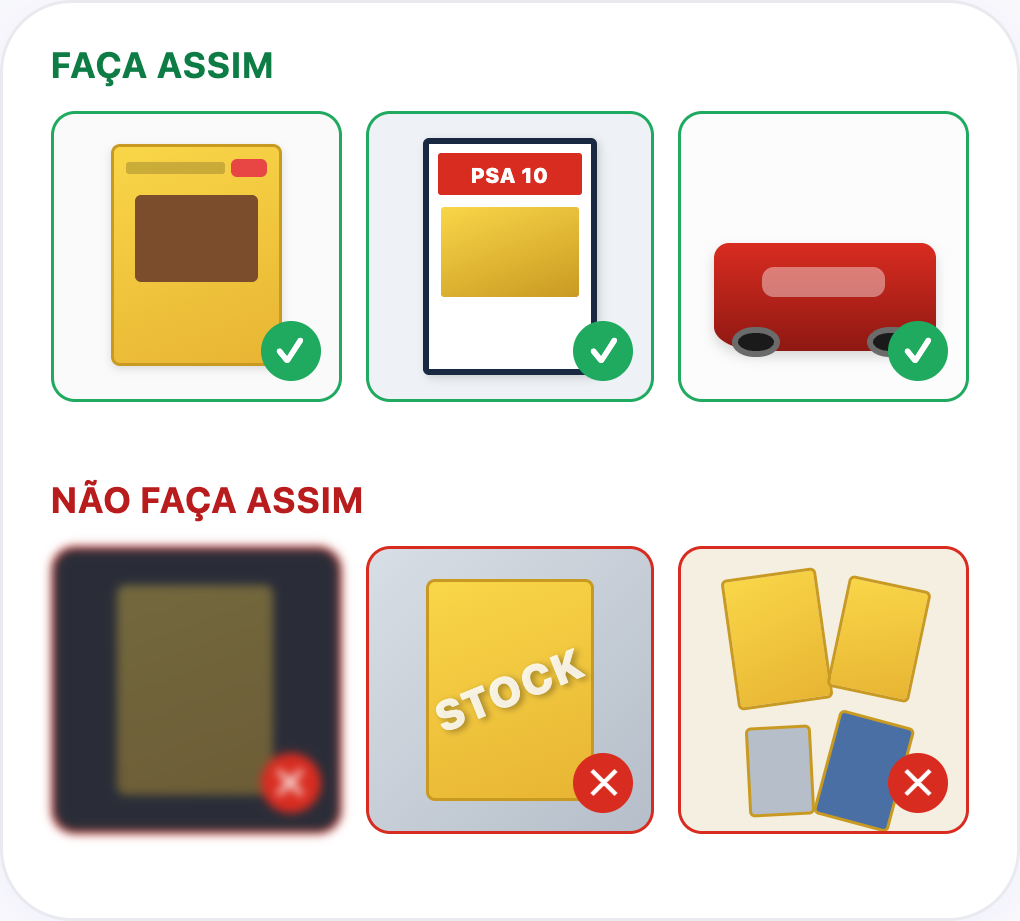
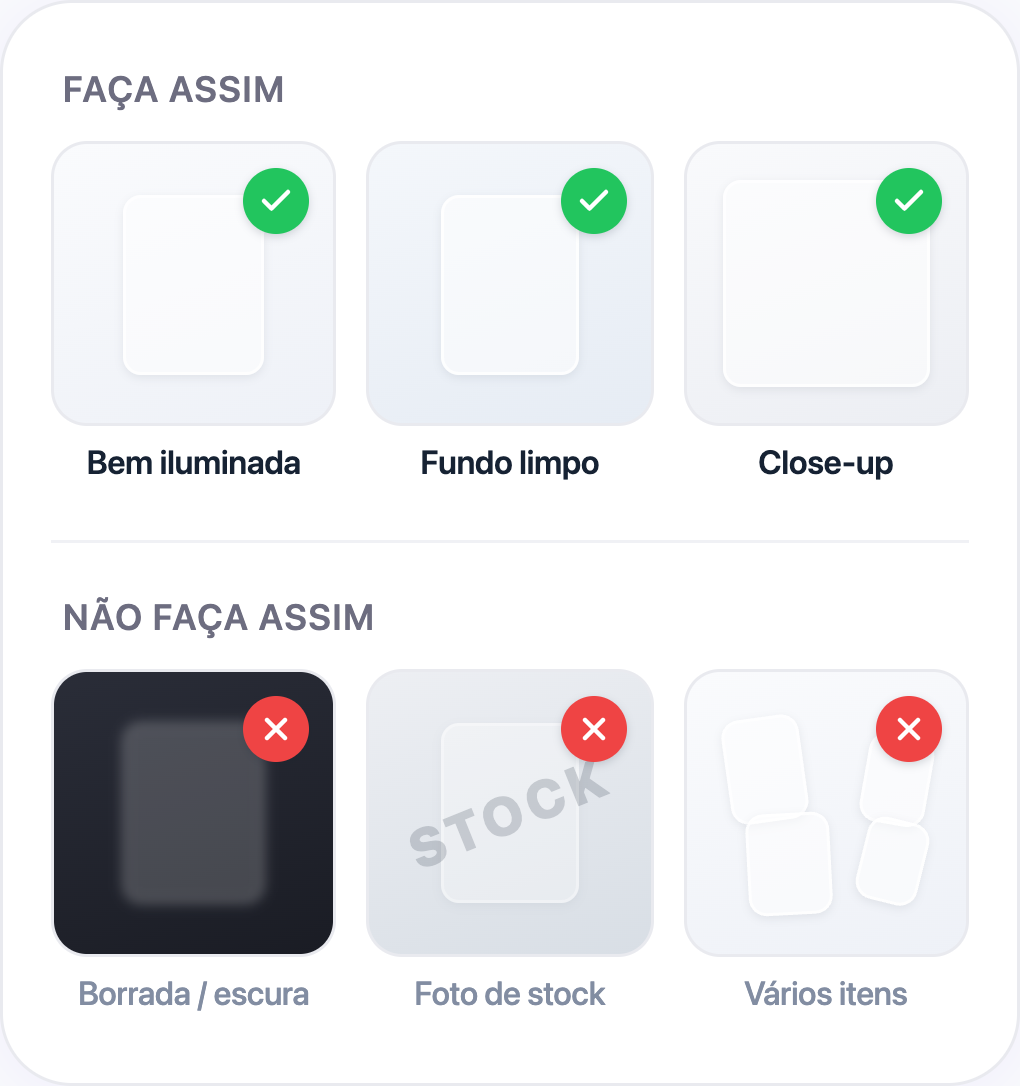
listing-guidelines: clean Jamble DA on photo good/bad mockup, kill cartoons

diff --git a/articles/listing-guidelines/mockup-sources/photo-do-dont__pt-br.html b/articles/listing-guidelines/mockup-sources/photo-do-dont__pt-br.html
@@ -1,90 +1,93 @@
-<!DOCTYPE html><html><head><meta name="viewport" content="width=device-width, initial-scale=1"><style>
+<!DOCTYPE html>
+<html><head><meta name="viewport" content="width=device-width, initial-scale=1"><style>
 * { box-sizing: border-box; margin: 0; padding: 0; }
 body { font-family: -apple-system, "SF Pro Display", BlinkMacSystemFont, system-ui, sans-serif; background: #F9FAFC; display: flex; justify-content: center; padding: 12px; }
-.phone { width: 340px; background: #FFFFFF; border-radius: 24px; box-shadow: 0 2px 20px rgba(126,83,248,0.08); border: 1px solid #E9EAEF; overflow: hidden; padding-bottom: 16px; }
-.row-title { font-size: 12px; font-weight: 700; padding: 14px 16px 8px; text-transform: uppercase; letter-spacing: 0.5px; }
-.row-title.do { color: #0E7D45; }
-.row-title.dont { color: #B91C1C; }
-.grid { display: grid; grid-template-columns: repeat(3, 1fr); gap: 8px; padding: 0 16px 12px; }
-.slot { aspect-ratio: 1; border-radius: 8px; position: relative; overflow: hidden; border: 1.5px solid; }
-.slot.good { border-color: #1FAA5F; }
-.slot.bad { border-color: #D92C20; }
-.tick { position: absolute; bottom: 6px; right: 6px; width: 20px; height: 20px; background: #1FAA5F; color: white; border-radius: 50%; font-size: 12px; font-weight: 700; display: flex; align-items: center; justify-content: center; z-index: 3; }
-.cross { position: absolute; bottom: 6px; right: 6px; width: 20px; height: 20px; background: #D92C20; color: white; border-radius: 50%; font-size: 12px; font-weight: 700; display: flex; align-items: center; justify-content: center; z-index: 3; }
+.phone { width: 340px; background: #FFFFFF; border-radius: 24px; box-shadow: 0 2px 20px rgba(126,83,248,0.08); border: 1px solid #E9EAEF; overflow: hidden; padding: 16px 0 18px; }
+.section-header { font-size: 12px; font-weight: 600; color: #6D6D80; text-transform: uppercase; letter-spacing: 0.6px; padding: 6px 20px 10px; }
+.grid { display: grid; grid-template-columns: repeat(3, 1fr); gap: 10px; padding: 0 16px 4px; }
+.cell { display: flex; flex-direction: column; gap: 6px; }
+.thumb { aspect-ratio: 1; border-radius: 12px; position: relative; overflow: hidden; border: 1px solid #E9EAEF; }
+.thumb-inner { position: absolute; inset: 0; display: flex; align-items: center; justify-content: center; }
+.shape { width: 50%; height: 64%; border-radius: 6px; background: rgba(255,255,255,0.55); border: 1px solid rgba(255,255,255,0.8); box-shadow: 0 1px 3px rgba(22,34,51,0.08); }
+.badge { position: absolute; top: 8px; right: 8px; width: 22px; height: 22px; border-radius: 50%; display: flex; align-items: center; justify-content: center; box-shadow: 0 1px 3px rgba(22,34,51,0.18); z-index: 3; }
+.badge.ok { background: #22C55E; }
+.badge.no { background: #EF4444; }
+.badge svg { width: 12px; height: 12px; }
+.label { font-size: 11px; color: #162233; font-weight: 600; text-align: center; line-height: 14px; padding: 0 2px; }
+.label.muted { color: #828DA2; font-weight: 500; }
+.divider { height: 1px; background: #F0F1F5; margin: 14px 16px 12px; }
 
-/* Good 1: Pokemon card front, well lit white background */
-.g1 { background: #FAFAFA; display: flex; align-items: center; justify-content: center; }
-.g1-card { width: 60%; height: 78%; background: linear-gradient(160deg, #F9D648 0%, #E8B533 100%); border-radius: 3px; border: 1.2px solid #C99A22; position: relative; box-shadow: 0 1px 3px rgba(0,0,0,0.12); }
-.g1-win { position: absolute; top: 22%; left: 12%; right: 12%; bottom: 38%; background: #7B4D2C; border-radius: 2px; }
-.g1-bar { position: absolute; top: 6%; left: 8%; right: 32%; height: 6%; background: rgba(0,0,0,0.18); border-radius: 1px; }
-.g1-hp { position: absolute; top: 5%; right: 7%; width: 22%; height: 9%; background: #E84545; border-radius: 2px; }
+/* Good thumbs: clean, well-lit, light pastel gradients */
+.t-good-1 { background: linear-gradient(160deg, #FAFBFD 0%, #EEF1F7 100%); }
+.t-good-2 { background: linear-gradient(160deg, #F4F7FB 0%, #E6ECF4 100%); }
+.t-good-3 { background: linear-gradient(160deg, #F9FAFC 0%, #ECEEF3 100%); }
 
-/* Good 2: PSA graded card */
-.g2 { background: #EEF1F5; display: flex; align-items: center; justify-content: center; }
-.g2-card { width: 62%; height: 84%; background: white; border-radius: 2px; border: 2px solid #1A2942; position: relative; box-shadow: 1px 1px 3px rgba(0,0,0,0.15); }
-.g2-grade { position: absolute; top: 5%; left: 6%; right: 6%; height: 18%; background: #D92C20; border-radius: 1px; display: flex; align-items: center; justify-content: center; color: white; font-size: 7px; font-weight: 800; letter-spacing: 0.4px; }
-.g2-img { position: absolute; top: 28%; left: 8%; right: 8%; bottom: 32%; background: linear-gradient(160deg, #F9D648 0%, #C99A22 100%); border-radius: 1px; }
-
-/* Good 3: Hot Wheels diecast on white */
-.g3 { background: #FCFCFC; display: flex; align-items: center; justify-content: center; }
-.g3-car { width: 78%; height: 38%; background: linear-gradient(180deg, #D92C20 0%, #8E1812 100%); border-radius: 5px 5px 16px 16px / 5px 5px 8px 8px; position: relative; box-shadow: 0 2px 4px rgba(0,0,0,0.15); margin-top: 28%; }
-.g3-window { position: absolute; top: 22%; left: 22%; right: 22%; height: 30%; background: rgba(255,255,255,0.4); border-radius: 4px; }
-.g3-wheel { position: absolute; bottom: -8%; width: 22%; height: 30%; background: #1A1A1A; border-radius: 50%; border: 2px solid #6B6B6B; }
-.g3-w1 { left: 8%; }
-.g3-w2 { right: 8%; }
-
-/* Bad 1: Blurry / dark */
-.b1 { background: #2A2D38; display: flex; align-items: center; justify-content: center; position: relative; filter: blur(1.5px); }
-.b1-card { width: 55%; height: 75%; background: linear-gradient(160deg, rgba(249,214,72,0.5) 0%, rgba(232,181,51,0.5) 100%); border-radius: 3px; opacity: 0.7; }
-
-/* Bad 2: Stock / watermark */
-.b2 { background: linear-gradient(135deg, #D8DEE5 0%, #B5BEC9 100%); display: flex; align-items: center; justify-content: center; position: relative; }
-.b2-card { width: 60%; height: 78%; background: linear-gradient(160deg, #F9D648 0%, #E8B533 100%); border-radius: 3px; border: 1.2px solid #C99A22; }
-.b2-watermark { position: absolute; top: 50%; left: 50%; transform: translate(-50%, -50%) rotate(-22deg); color: rgba(255,255,255,0.85); font-size: 14px; font-weight: 800; text-shadow: 1px 1px 2px rgba(0,0,0,0.3); letter-spacing: 1px; z-index: 2; }
-
-/* Bad 3: Multiple unrelated items in shot */
-.b3 { background: #F5EFE2; display: flex; align-items: center; justify-content: center; flex-wrap: wrap; gap: 4px; padding: 8px; }
-.b3-c { background: linear-gradient(160deg, #F9D648 0%, #E8B533 100%); border-radius: 2px; border: 1px solid #C99A22; }
-.b3-a { width: 32px; height: 44px; transform: rotate(-8deg); }
-.b3-b { width: 28px; height: 38px; transform: rotate(12deg); }
-.b3-d { width: 22px; height: 30px; transform: rotate(-3deg); background: #B5BEC9; }
-.b3-e { width: 26px; height: 36px; transform: rotate(15deg); background: #4A6FA5; }
-</style></head><body><div class="phone">
-
-<div class="row-title do">Faça assim</div>
-<div class="grid">
-  <div class="slot good g1">
-    <div class="g1-card"><div class="g1-bar"></div><div class="g1-hp"></div><div class="g1-win"></div></div>
-    <div class="tick">✓</div>
+/* Bad thumbs: visual problems hinted, never cartoon */
+.t-bad-1 { background: linear-gradient(160deg, #2A2D38 0%, #1A1C24 100%); }
+.t-bad-1 .shape { background: rgba(255,255,255,0.18); border-color: rgba(255,255,255,0.22); filter: blur(2px); }
+.t-bad-2 { background: linear-gradient(160deg, #EDEFF3 0%, #D8DEE5 100%); position: relative; }
+.t-bad-2::after { content: "STOCK"; position: absolute; top: 50%; left: 50%; transform: translate(-50%, -50%) rotate(-22deg); color: rgba(22,34,51,0.18); font-size: 18px; font-weight: 800; letter-spacing: 2px; z-index: 2; }
+.t-bad-3 { background: linear-gradient(160deg, #FAFBFD 0%, #EEF1F7 100%); }
+.t-bad-3 .shape { width: 28%; height: 38%; position: absolute; }
+.t-bad-3 .s1 { top: 16%; left: 14%; transform: rotate(-8deg); }
+.t-bad-3 .s2 { top: 22%; right: 12%; transform: rotate(10deg); width: 24%; height: 32%; }
+.t-bad-3 .s3 { bottom: 14%; left: 22%; transform: rotate(-3deg); width: 30%; height: 36%; }
+.t-bad-3 .s4 { bottom: 18%; right: 16%; transform: rotate(14deg); width: 22%; height: 30%; }
+</style></head><body>
+<div class="phone">
+  <div class="section-header">Faça assim</div>
+  <div class="grid">
+    <div class="cell">
+      <div class="thumb t-good-1">
+        <div class="thumb-inner"><div class="shape"></div></div>
+        <div class="badge ok"><svg viewBox="0 0 24 24" fill="none" stroke="white" stroke-width="3" stroke-linecap="round" stroke-linejoin="round"><polyline points="20 6 9 17 4 12"/></svg></div>
+      </div>
+      <div class="label">Bem iluminada</div>
+    </div>
+    <div class="cell">
+      <div class="thumb t-good-2">
+        <div class="thumb-inner"><div class="shape"></div></div>
+        <div class="badge ok"><svg viewBox="0 0 24 24" fill="none" stroke="white" stroke-width="3" stroke-linecap="round" stroke-linejoin="round"><polyline points="20 6 9 17 4 12"/></svg></div>
+      </div>
+      <div class="label">Fundo limpo</div>
+    </div>
+    <div class="cell">
+      <div class="thumb t-good-3">
+        <div class="thumb-inner"><div class="shape" style="width:74%;height:74%"></div></div>
+        <div class="badge ok"><svg viewBox="0 0 24 24" fill="none" stroke="white" stroke-width="3" stroke-linecap="round" stroke-linejoin="round"><polyline points="20 6 9 17 4 12"/></svg></div>
+      </div>
+      <div class="label">Close-up</div>
+    </div>
   </div>
-  <div class="slot good g2">
-    <div class="g2-card"><div class="g2-grade">PSA 10</div><div class="g2-img"></div></div>
-    <div class="tick">✓</div>
-  </div>
-  <div class="slot good g3">
-    <div class="g3-car"><div class="g3-window"></div><div class="g3-wheel g3-w1"></div><div class="g3-wheel g3-w2"></div></div>
-    <div class="tick">✓</div>
+
+  <div class="divider"></div>
+
+  <div class="section-header">Não faça assim</div>
+  <div class="grid">
+    <div class="cell">
+      <div class="thumb t-bad-1">
+        <div class="thumb-inner"><div class="shape"></div></div>
+        <div class="badge no"><svg viewBox="0 0 24 24" fill="none" stroke="white" stroke-width="3" stroke-linecap="round" stroke-linejoin="round"><line x1="18" y1="6" x2="6" y2="18"/><line x1="6" y1="6" x2="18" y2="18"/></svg></div>
+      </div>
+      <div class="label muted">Borrada / escura</div>
+    </div>
+    <div class="cell">
+      <div class="thumb t-bad-2">
+        <div class="thumb-inner"><div class="shape" style="opacity:0.6"></div></div>
+        <div class="badge no"><svg viewBox="0 0 24 24" fill="none" stroke="white" stroke-width="3" stroke-linecap="round" stroke-linejoin="round"><line x1="18" y1="6" x2="6" y2="18"/><line x1="6" y1="6" x2="18" y2="18"/></svg></div>
+      </div>
+      <div class="label muted">Foto de stock</div>
+    </div>
+    <div class="cell">
+      <div class="thumb t-bad-3">
+        <div class="shape s1"></div>
+        <div class="shape s2"></div>
+        <div class="shape s3"></div>
+        <div class="shape s4"></div>
+        <div class="badge no"><svg viewBox="0 0 24 24" fill="none" stroke="white" stroke-width="3" stroke-linecap="round" stroke-linejoin="round"><line x1="18" y1="6" x2="6" y2="18"/><line x1="6" y1="6" x2="18" y2="18"/></svg></div>
+      </div>
+      <div class="label muted">Vários itens</div>
+    </div>
   </div>
 </div>
-
-<div class="row-title dont">Não faça assim</div>
-<div class="grid">
-  <div class="slot bad b1">
-    <div class="b1-card"></div>
-    <div class="cross">✕</div>
-  </div>
-  <div class="slot bad b2">
-    <div class="b2-card"></div>
-    <div class="b2-watermark">STOCK</div>
-    <div class="cross">✕</div>
-  </div>
-  <div class="slot bad b3">
-    <div class="b3-c b3-a"></div>
-    <div class="b3-c b3-b"></div>
-    <div class="b3-c b3-d"></div>
-    <div class="b3-c b3-e"></div>
-    <div class="cross">✕</div>
-  </div>
-</div>
-
-</div></body></html>
+</body></html>

diff --git a/articles/listing-guidelines/mockup-sources/photo-do-dont__en.html b/articles/listing-guidelines/mockup-sources/photo-do-dont__en.html
@@ -1,84 +1,91 @@
-<!DOCTYPE html><html><head><meta name="viewport" content="width=device-width, initial-scale=1"><style>
+<!DOCTYPE html>
+<html><head><meta name="viewport" content="width=device-width, initial-scale=1"><style>
 * { box-sizing: border-box; margin: 0; padding: 0; }
 body { font-family: -apple-system, "SF Pro Display", BlinkMacSystemFont, system-ui, sans-serif; background: #F9FAFC; display: flex; justify-content: center; padding: 12px; }
-.phone { width: 340px; background: #FFFFFF; border-radius: 24px; box-shadow: 0 2px 20px rgba(126,83,248,0.08); border: 1px solid #E9EAEF; overflow: hidden; padding-bottom: 16px; }
-.row-title { font-size: 12px; font-weight: 700; padding: 14px 16px 8px; text-transform: uppercase; letter-spacing: 0.5px; }
-.row-title.do { color: #0E7D45; }
-.row-title.dont { color: #B91C1C; }
-.grid { display: grid; grid-template-columns: repeat(3, 1fr); gap: 8px; padding: 0 16px 12px; }
-.slot { aspect-ratio: 1; border-radius: 8px; position: relative; overflow: hidden; border: 1.5px solid; }
-.slot.good { border-color: #1FAA5F; }
-.slot.bad { border-color: #D92C20; }
-.tick { position: absolute; bottom: 6px; right: 6px; width: 20px; height: 20px; background: #1FAA5F; color: white; border-radius: 50%; font-size: 12px; font-weight: 700; display: flex; align-items: center; justify-content: center; z-index: 3; }
-.cross { position: absolute; bottom: 6px; right: 6px; width: 20px; height: 20px; background: #D92C20; color: white; border-radius: 50%; font-size: 12px; font-weight: 700; display: flex; align-items: center; justify-content: center; z-index: 3; }
+.phone { width: 340px; background: #FFFFFF; border-radius: 24px; box-shadow: 0 2px 20px rgba(126,83,248,0.08); border: 1px solid #E9EAEF; overflow: hidden; padding: 16px 0 18px; }
+.section-header { font-size: 12px; font-weight: 600; color: #6D6D80; text-transform: uppercase; letter-spacing: 0.6px; padding: 6px 20px 10px; }
+.grid { display: grid; grid-template-columns: repeat(3, 1fr); gap: 10px; padding: 0 16px 4px; }
+.cell { display: flex; flex-direction: column; gap: 6px; }
+.thumb { aspect-ratio: 1; border-radius: 12px; position: relative; overflow: hidden; border: 1px solid #E9EAEF; }
+.thumb-inner { position: absolute; inset: 0; display: flex; align-items: center; justify-content: center; }
+.shape { width: 50%; height: 64%; border-radius: 6px; background: rgba(255,255,255,0.55); border: 1px solid rgba(255,255,255,0.8); box-shadow: 0 1px 3px rgba(22,34,51,0.08); }
+.badge { position: absolute; top: 8px; right: 8px; width: 22px; height: 22px; border-radius: 50%; display: flex; align-items: center; justify-content: center; box-shadow: 0 1px 3px rgba(22,34,51,0.18); z-index: 3; }
+.badge.ok { background: #22C55E; }
+.badge.no { background: #EF4444; }
+.badge svg { width: 12px; height: 12px; }
+.label { font-size: 11px; color: #162233; font-weight: 600; text-align: center; line-height: 14px; padding: 0 2px; }
+.label.muted { color: #828DA2; font-weight: 500; }
+.divider { height: 1px; background: #F0F1F5; margin: 14px 16px 12px; }
 
-.g1 { background: #FAFAFA; display: flex; align-items: center; justify-content: center; }
-.g1-card { width: 60%; height: 78%; background: linear-gradient(160deg, #F9D648 0%, #E8B533 100%); border-radius: 3px; border: 1.2px solid #C99A22; position: relative; box-shadow: 0 1px 3px rgba(0,0,0,0.12); }
-.g1-win { position: absolute; top: 22%; left: 12%; right: 12%; bottom: 38%; background: #7B4D2C; border-radius: 2px; }
-.g1-bar { position: absolute; top: 6%; left: 8%; right: 32%; height: 6%; background: rgba(0,0,0,0.18); border-radius: 1px; }
-.g1-hp { position: absolute; top: 5%; right: 7%; width: 22%; height: 9%; background: #E84545; border-radius: 2px; }
+.t-good-1 { background: linear-gradient(160deg, #FAFBFD 0%, #EEF1F7 100%); }
+.t-good-2 { background: linear-gradient(160deg, #F4F7FB 0%, #E6ECF4 100%); }
+.t-good-3 { background: linear-gradient(160deg, #F9FAFC 0%, #ECEEF3 100%); }
 
-.g2 { background: #EEF1F5; display: flex; align-items: center; justify-content: center; }
-.g2-card { width: 62%; height: 84%; background: white; border-radius: 2px; border: 2px solid #1A2942; position: relative; box-shadow: 1px 1px 3px rgba(0,0,0,0.15); }
-.g2-grade { position: absolute; top: 5%; left: 6%; right: 6%; height: 18%; background: #D92C20; border-radius: 1px; display: flex; align-items: center; justify-content: center; color: white; font-size: 7px; font-weight: 800; letter-spacing: 0.4px; }
-.g2-img { position: absolute; top: 28%; left: 8%; right: 8%; bottom: 32%; background: linear-gradient(160deg, #F9D648 0%, #C99A22 100%); border-radius: 1px; }
-
-.g3 { background: #FCFCFC; display: flex; align-items: center; justify-content: center; }
-.g3-car { width: 78%; height: 38%; background: linear-gradient(180deg, #D92C20 0%, #8E1812 100%); border-radius: 5px 5px 16px 16px / 5px 5px 8px 8px; position: relative; box-shadow: 0 2px 4px rgba(0,0,0,0.15); margin-top: 28%; }
-.g3-window { position: absolute; top: 22%; left: 22%; right: 22%; height: 30%; background: rgba(255,255,255,0.4); border-radius: 4px; }
-.g3-wheel { position: absolute; bottom: -8%; width: 22%; height: 30%; background: #1A1A1A; border-radius: 50%; border: 2px solid #6B6B6B; }
-.g3-w1 { left: 8%; }
-.g3-w2 { right: 8%; }
-
-.b1 { background: #2A2D38; display: flex; align-items: center; justify-content: center; position: relative; filter: blur(1.5px); }
-.b1-card { width: 55%; height: 75%; background: linear-gradient(160deg, rgba(249,214,72,0.5) 0%, rgba(232,181,51,0.5) 100%); border-radius: 3px; opacity: 0.7; }
-
-.b2 { background: linear-gradient(135deg, #D8DEE5 0%, #B5BEC9 100%); display: flex; align-items: center; justify-content: center; position: relative; }
-.b2-card { width: 60%; height: 78%; background: linear-gradient(160deg, #F9D648 0%, #E8B533 100%); border-radius: 3px; border: 1.2px solid #C99A22; }
-.b2-watermark { position: absolute; top: 50%; left: 50%; transform: translate(-50%, -50%) rotate(-22deg); color: rgba(255,255,255,0.85); font-size: 14px; font-weight: 800; text-shadow: 1px 1px 2px rgba(0,0,0,0.3); letter-spacing: 1px; z-index: 2; }
-
-.b3 { background: #F5EFE2; display: flex; align-items: center; justify-content: center; flex-wrap: wrap; gap: 4px; padding: 8px; }
-.b3-c { background: linear-gradient(160deg, #F9D648 0%, #E8B533 100%); border-radius: 2px; border: 1px solid #C99A22; }
-.b3-a { width: 32px; height: 44px; transform: rotate(-8deg); }
-.b3-b { width: 28px; height: 38px; transform: rotate(12deg); }
-.b3-d { width: 22px; height: 30px; transform: rotate(-3deg); background: #B5BEC9; }
-.b3-e { width: 26px; height: 36px; transform: rotate(15deg); background: #4A6FA5; }
-</style></head><body><div class="phone">
-
-<div class="row-title do">Do this</div>
-<div class="grid">
-  <div class="slot good g1">
-    <div class="g1-card"><div class="g1-bar"></div><div class="g1-hp"></div><div class="g1-win"></div></div>
-    <div class="tick">✓</div>
+.t-bad-1 { background: linear-gradient(160deg, #2A2D38 0%, #1A1C24 100%); }
+.t-bad-1 .shape { background: rgba(255,255,255,0.18); border-color: rgba(255,255,255,0.22); filter: blur(2px); }
+.t-bad-2 { background: linear-gradient(160deg, #EDEFF3 0%, #D8DEE5 100%); position: relative; }
+.t-bad-2::after { content: "STOCK"; position: absolute; top: 50%; left: 50%; transform: translate(-50%, -50%) rotate(-22deg); color: rgba(22,34,51,0.18); font-size: 18px; font-weight: 800; letter-spacing: 2px; z-index: 2; }
+.t-bad-3 { background: linear-gradient(160deg, #FAFBFD 0%, #EEF1F7 100%); }
+.t-bad-3 .shape { width: 28%; height: 38%; position: absolute; }
+.t-bad-3 .s1 { top: 16%; left: 14%; transform: rotate(-8deg); }
+.t-bad-3 .s2 { top: 22%; right: 12%; transform: rotate(10deg); width: 24%; height: 32%; }
+.t-bad-3 .s3 { bottom: 14%; left: 22%; transform: rotate(-3deg); width: 30%; height: 36%; }
+.t-bad-3 .s4 { bottom: 18%; right: 16%; transform: rotate(14deg); width: 22%; height: 30%; }
+</style></head><body>
+<div class="phone">
+  <div class="section-header">Do this</div>
+  <div class="grid">
+    <div class="cell">
+      <div class="thumb t-good-1">
+        <div class="thumb-inner"><div class="shape"></div></div>
+        <div class="badge ok"><svg viewBox="0 0 24 24" fill="none" stroke="white" stroke-width="3" stroke-linecap="round" stroke-linejoin="round"><polyline points="20 6 9 17 4 12"/></svg></div>
+      </div>
+      <div class="label">Well lit</div>
+    </div>
+    <div class="cell">
+      <div class="thumb t-good-2">
+        <div class="thumb-inner"><div class="shape"></div></div>
+        <div class="badge ok"><svg viewBox="0 0 24 24" fill="none" stroke="white" stroke-width="3" stroke-linecap="round" stroke-linejoin="round"><polyline points="20 6 9 17 4 12"/></svg></div>
+      </div>
+      <div class="label">Clean background</div>
+    </div>
+    <div class="cell">
+      <div class="thumb t-good-3">
+        <div class="thumb-inner"><div class="shape" style="width:74%;height:74%"></div></div>
+        <div class="badge ok"><svg viewBox="0 0 24 24" fill="none" stroke="white" stroke-width="3" stroke-linecap="round" stroke-linejoin="round"><polyline points="20 6 9 17 4 12"/></svg></div>
+      </div>
+      <div class="label">Close-up</div>
+    </div>
   </div>
-  <div class="slot good g2">
-    <div class="g2-card"><div class="g2-grade">PSA 10</div><div class="g2-img"></div></div>
-    <div class="tick">✓</div>
-  </div>
-  <div class="slot good g3">
-    <div class="g3-car"><div class="g3-window"></div><div class="g3-wheel g3-w1"></div><div class="g3-wheel g3-w2"></div></div>
-    <div class="tick">✓</div>
+
+  <div class="divider"></div>
+
+  <div class="section-header">Avoid this</div>
+  <div class="grid">
+    <div class="cell">
+      <div class="thumb t-bad-1">
+        <div class="thumb-inner"><div class="shape"></div></div>
+        <div class="badge no"><svg viewBox="0 0 24 24" fill="none" stroke="white" stroke-width="3" stroke-linecap="round" stroke-linejoin="round"><line x1="18" y1="6" x2="6" y2="18"/><line x1="6" y1="6" x2="18" y2="18"/></svg></div>
+      </div>
+      <div class="label muted">Blurry / dark</div>
+    </div>
+    <div class="cell">
+      <div class="thumb t-bad-2">
+        <div class="thumb-inner"><div class="shape" style="opacity:0.6"></div></div>
+        <div class="badge no"><svg viewBox="0 0 24 24" fill="none" stroke="white" stroke-width="3" stroke-linecap="round" stroke-linejoin="round"><line x1="18" y1="6" x2="6" y2="18"/><line x1="6" y1="6" x2="18" y2="18"/></svg></div>
+      </div>
+      <div class="label muted">Stock photo</div>
+    </div>
+    <div class="cell">
+      <div class="thumb t-bad-3">
+        <div class="shape s1"></div>
+        <div class="shape s2"></div>
+        <div class="shape s3"></div>
+        <div class="shape s4"></div>
+        <div class="badge no"><svg viewBox="0 0 24 24" fill="none" stroke="white" stroke-width="3" stroke-linecap="round" stroke-linejoin="round"><line x1="18" y1="6" x2="6" y2="18"/><line x1="6" y1="6" x2="18" y2="18"/></svg></div>
+      </div>
+      <div class="label muted">Multiple items</div>
+    </div>
   </div>
 </div>
-
-<div class="row-title dont">Avoid this</div>
-<div class="grid">
-  <div class="slot bad b1">
-    <div class="b1-card"></div>
-    <div class="cross">✕</div>
-  </div>
-  <div class="slot bad b2">
-    <div class="b2-card"></div>
-    <div class="b2-watermark">STOCK</div>
-    <div class="cross">✕</div>
-  </div>
-  <div class="slot bad b3">
-    <div class="b3-c b3-a"></div>
-    <div class="b3-c b3-b"></div>
-    <div class="b3-c b3-d"></div>
-    <div class="b3-c b3-e"></div>
-    <div class="cross">✕</div>
-  </div>
-</div>
-
-</div></body></html>
+</body></html>
